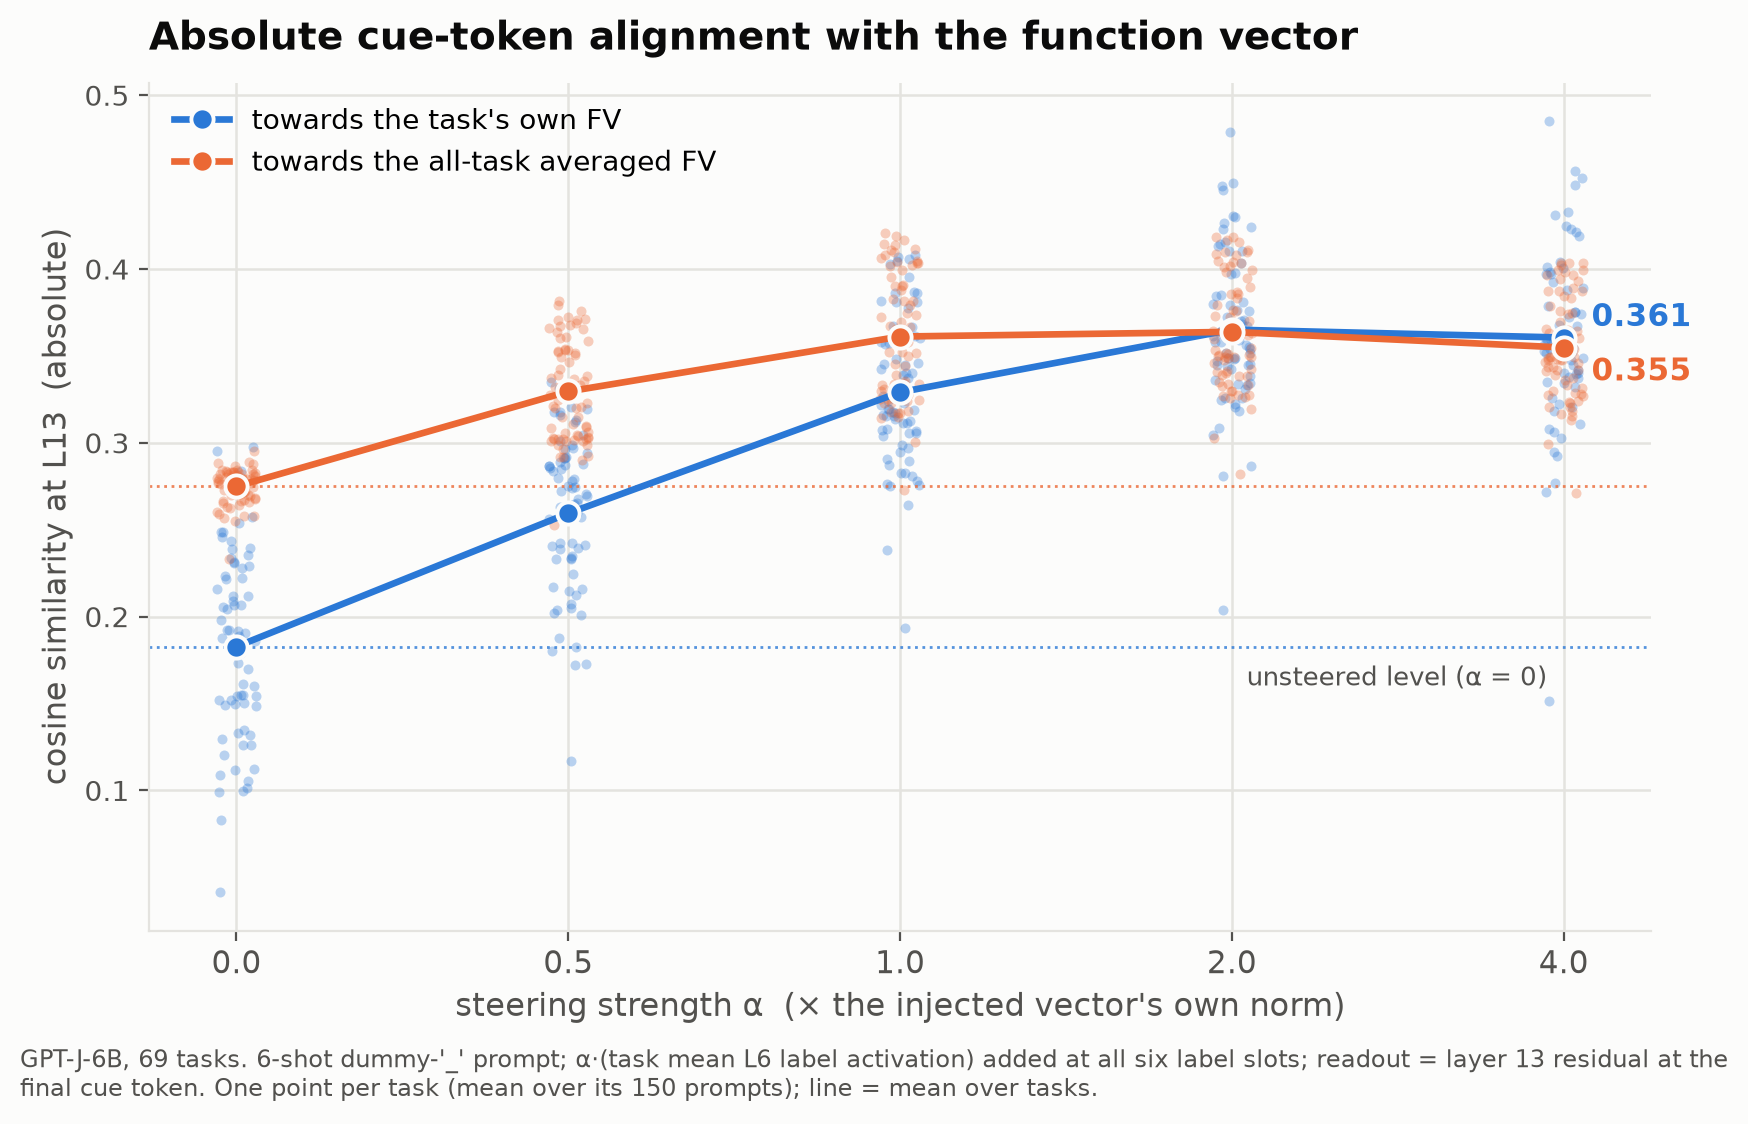
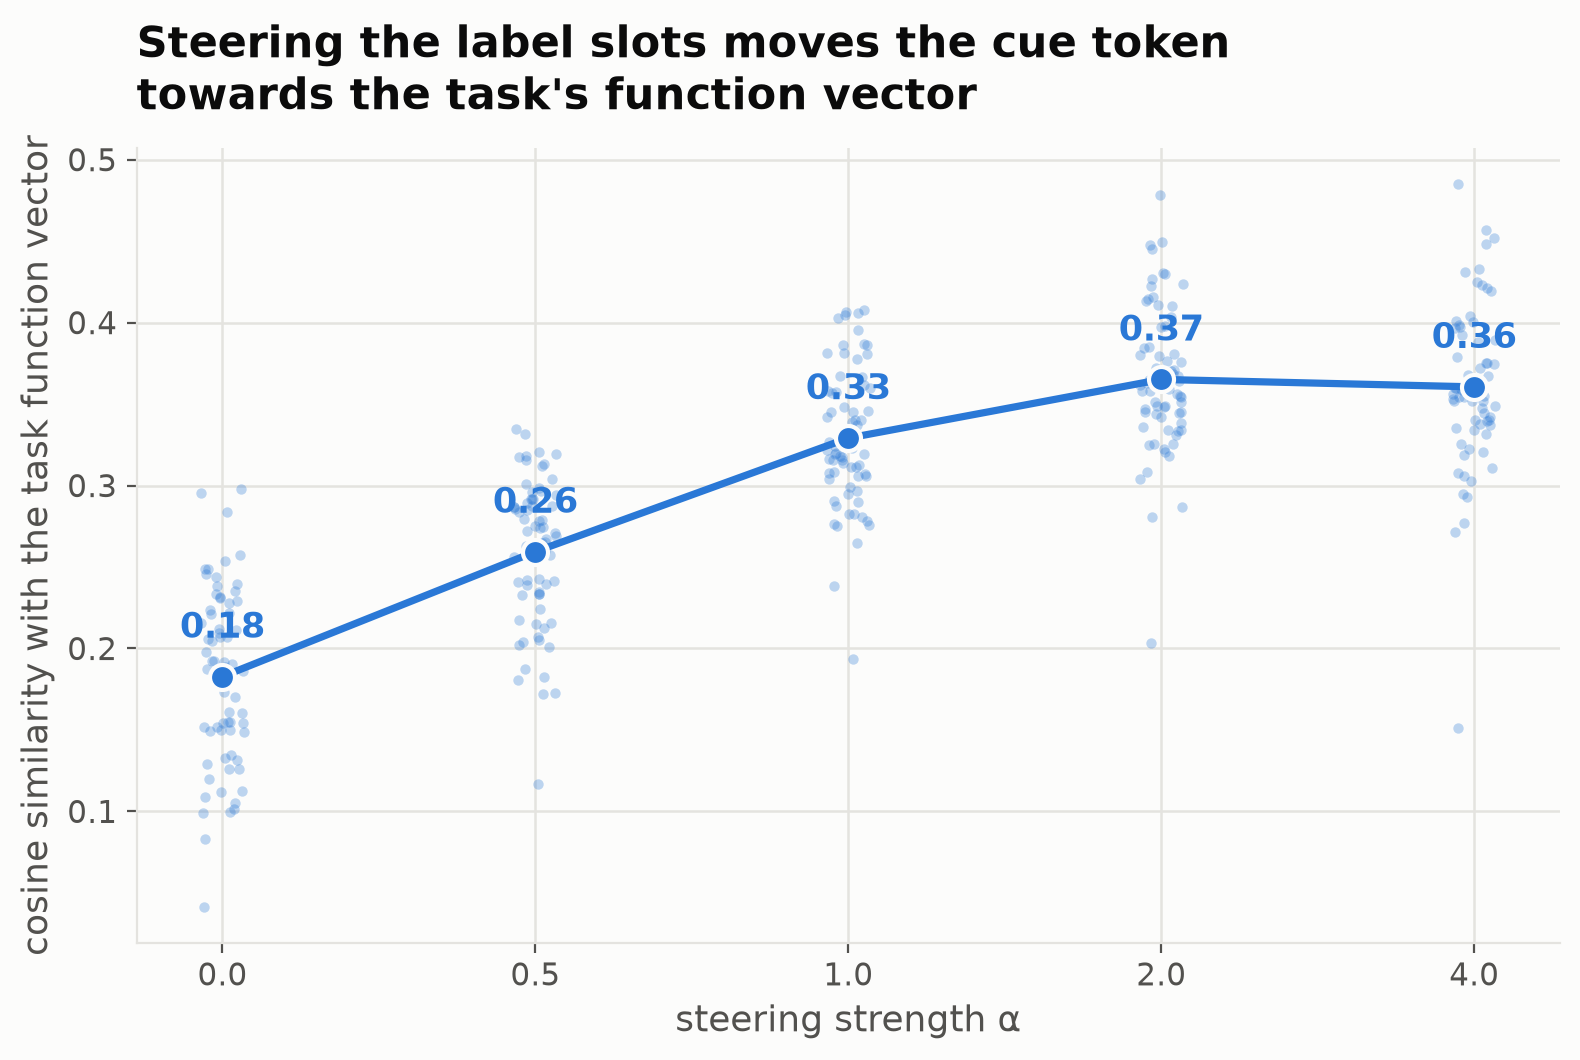
Streamline the headline: single series, absolute cos to the task FV, minimal chrome

diff --git a/src/eval_scripts/plot_steer_effect_on_cue.py b/src/eval_scripts/plot_steer_effect_on_cue.py
@@ -194,17 +194,36 @@ def main():
         pos = int((excess[:, ai] > 0).sum())
         print(f"  alpha={a}: {excess[:, ai].mean():+.4f}  (positive on {pos}/{len(tasks)} tasks)")
 
-    # absolute-scale companion for cosine (raw values, not deltas)
-    scatter_fig(at_layer["cos_task"], at_layer["cos_gen"],
-                f"cosine similarity at L{LAYER}  (absolute)",
-                "Absolute cue-token alignment with the function vector",
-                "headline_cos_absolute.png", fmt="{:.3f}", zero_line=False,
-                baseline=[(float(at_layer["cos_task"][:, 0].mean()), BLUE),
-                          (float(at_layer["cos_gen"][:, 0].mean()), ORANGE)])
-    print(f"absolute cos at alpha=0: task {at_layer['cos_task'][:, 0].mean():.4f} | "
-          f"generic {at_layer['cos_gen'][:, 0].mean():.4f}; "
-          f"at alpha=2: task {at_layer['cos_task'][:, 3].mean():.4f} | "
-          f"generic {at_layer['cos_gen'][:, 3].mean():.4f}")
+    # ---- HEADLINE: absolute alignment with the task FV, single series, minimal chrome ----
+    arr = at_layer["cos_task"]
+    fig, ax = plt.subplots(figsize=(8.0, 5.4), dpi=200)
+    fig.patch.set_facecolor(SURFACE); ax.set_facecolor(SURFACE)
+    rng = np.random.RandomState(0)
+    for ai in range(len(alphas)):
+        ax.scatter(np.full(arr.shape[0], ai) + rng.uniform(-0.07, 0.07, arr.shape[0]),
+                   arr[:, ai], s=14, alpha=0.3, color=BLUE, linewidths=0, zorder=2)
+    ax.plot(range(len(alphas)), arr.mean(axis=0), "o-", color=BLUE, lw=2.6, ms=9, zorder=4,
+            markeredgecolor=SURFACE, markeredgewidth=1.5)
+    for ai in range(len(alphas)):
+        ax.annotate(f"{arr[:, ai].mean():.2f}", (ai, arr[:, ai].mean()),
+                    textcoords="offset points", xytext=(0, 14), fontsize=12.5, color=BLUE,
+                    fontweight="bold", ha="center")
+    ax.set_xticks(range(len(alphas)), [str(a) for a in alphas], fontsize=12)
+    ax.set_xlabel("steering strength α", fontsize=13, color=INK2)
+    ax.set_ylabel("cosine similarity with the task function vector", fontsize=13, color=INK2)
+    ax.set_title("Steering the label slots moves the cue token\ntowards the task's function "
+                 "vector", fontsize=15.5, fontweight="bold", color=INK, loc="left", pad=14)
+    ax.tick_params(colors=INK2, labelsize=11)
+    ax.grid(True, color=GRID, lw=0.9, zorder=0)
+    ax.set_axisbelow(True)
+    for s in ("top", "right"):
+        ax.spines[s].set_visible(False)
+    for s in ("left", "bottom"):
+        ax.spines[s].set_color(GRID)
+    fig.tight_layout()
+    fig.savefig(OUT / "headline_cos_absolute.png", bbox_inches="tight", facecolor=SURFACE)
+    print(f"absolute cos to task FV: " +
+          "  ".join(f"a{a}={arr[:, ai].mean():.4f}" for ai, a in enumerate(alphas)))
 
     # layer profile of the task-FV delta
     fig, ax = plt.subplots(figsize=(9.2, 5.2), dpi=200)

diff --git a/WORKLOG.md b/WORKLOG.md
@@ -6158,3 +6158,11 @@ Unlike the raw task-FV delta (which peaked at alpha=2 and dipped at 4), this spe
 measure is still RISING at alpha=4 — the alpha=4 dip in raw alignment is a loss of GENERIC
 alignment, not of task-specific alignment. That removes the apparent dissociation with the
 accuracy curve (which also kept climbing to alpha=4).
+
+### Addendum 3 — headline simplified (user preference)
+
+`headline_cos_absolute.png` is now the single headline: ONE series (absolute cos to the task
+FV at L13), no generic-FV line, no footnote, no parenthetical axis text. Values 0.18 / 0.26 /
+0.33 / 0.37 / 0.36 for alpha 0 / 0.5 / 1 / 2 / 4. The generic-FV comparison and the
+task-specific excess remain available in headline_cos.png, headline_cos_taskspecific.png and
+summary.csv, but the headline answers only "how does alpha change similarity to the target FV".
